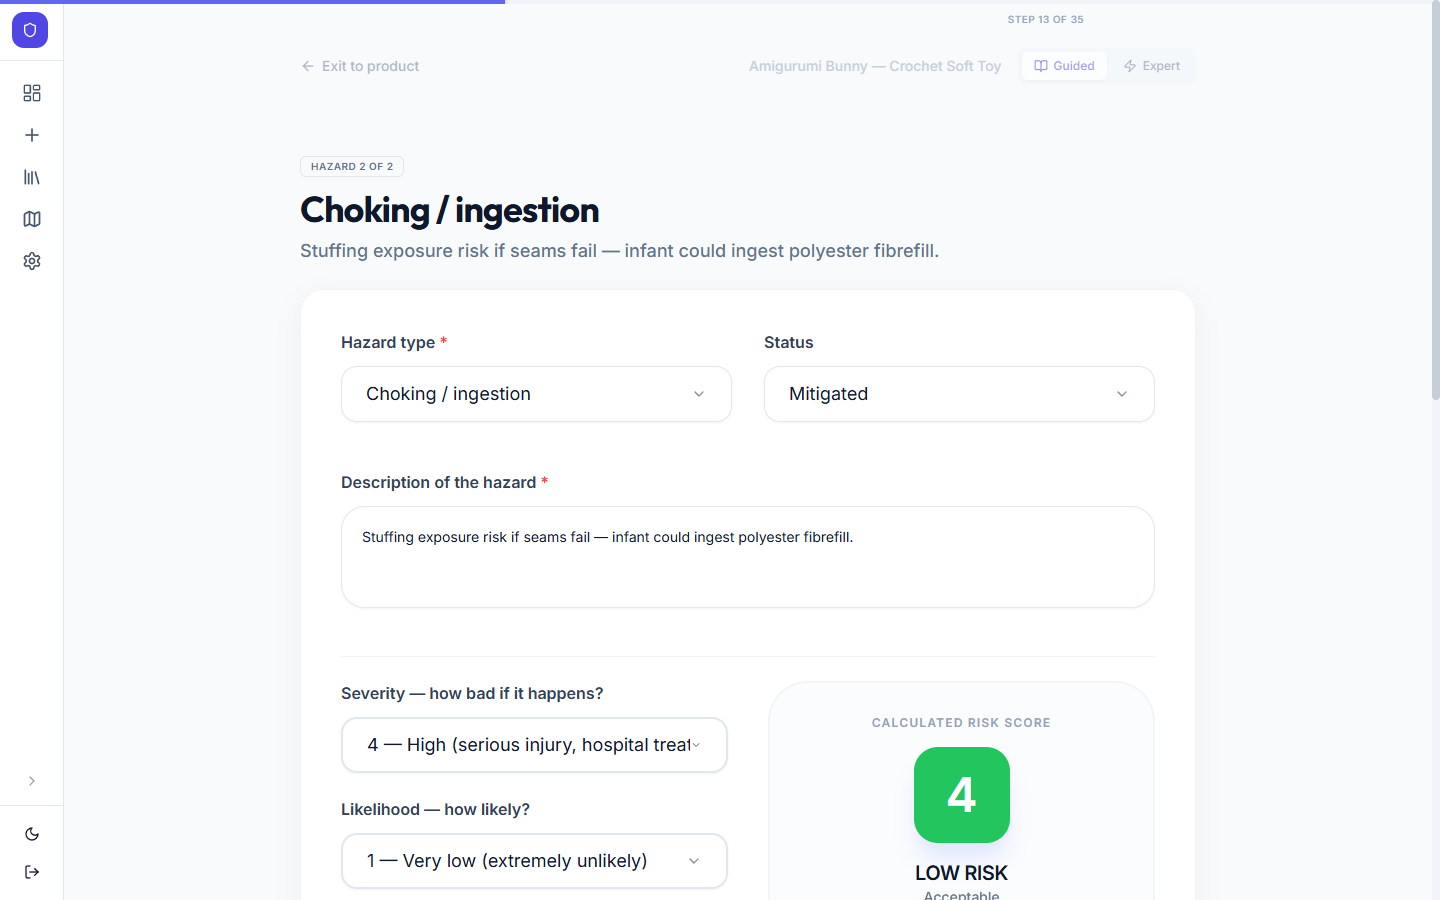
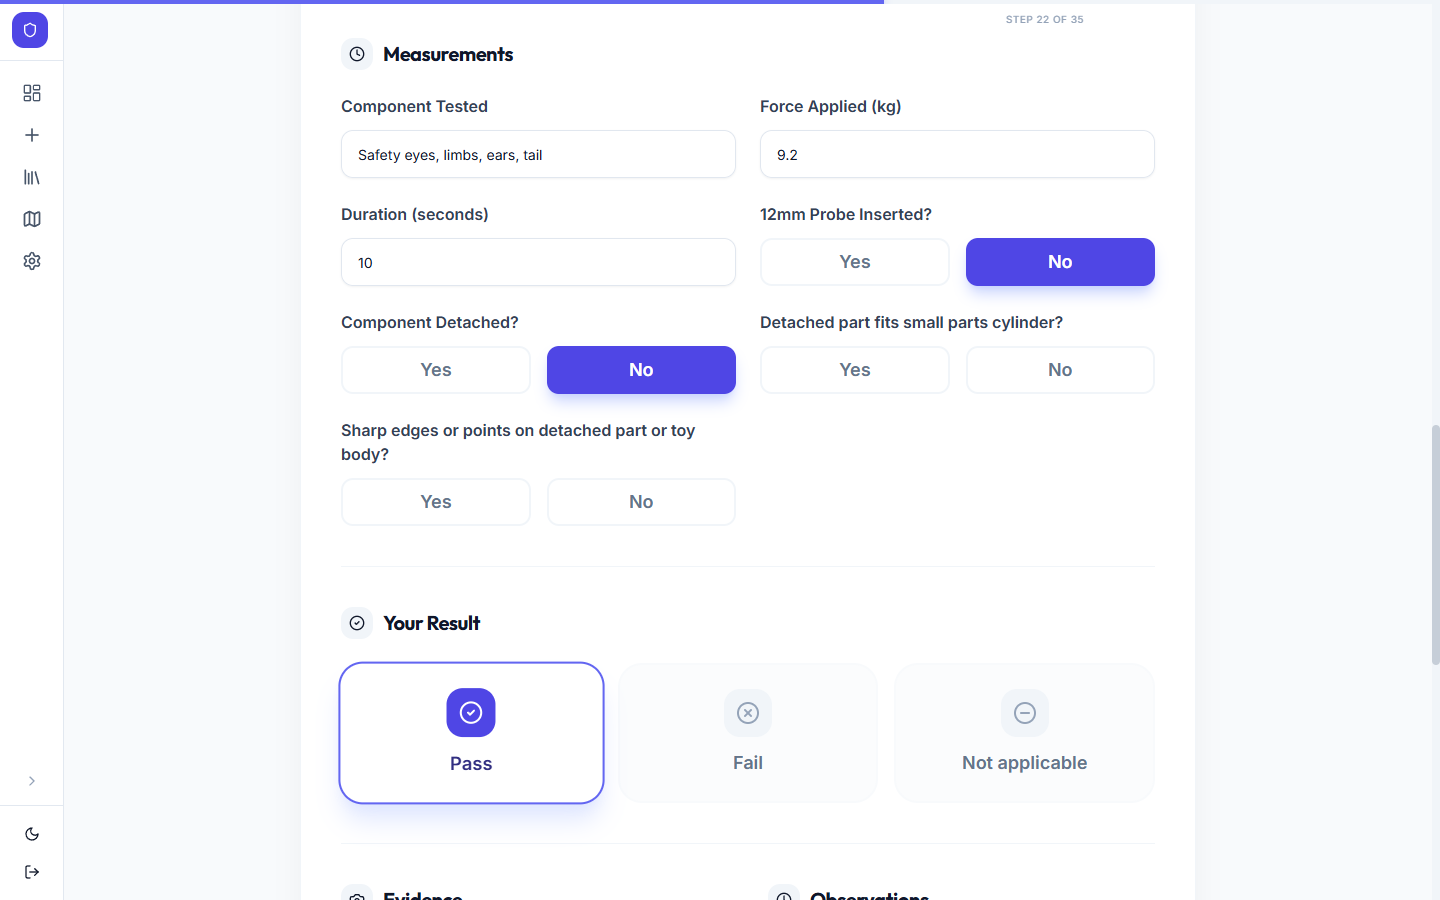
Add test screenshot

diff --git a/index.html b/index.html
@@ -3,14 +3,14 @@
 <head>
 <meta charset="UTF-8">
 <meta name="viewport" content="width=device-width, initial-scale=1.0">
-<title>MakerSafe — UKCA Compliance for UK Toy Makers</title>
+<title>MakerSafe — Get your UKCA paperwork right</title>
 <meta name="description" content="MakerSafe guides UK toy makers through EN71 safety testing, risk assessment, and technical documentation — step by step, in plain English. Generate your Declaration of Conformity, Technical File, and batch labels in seconds.">
-<meta property="og:title" content="MakerSafe — UKCA Compliance for UK Toy Makers">
+<meta property="og:title" content="MakerSafe — Get your UKCA paperwork right">
 <meta property="og:description" content="EN71 testing, risk assessments, Declarations of Conformity, Technical Files, and batch labels. Everything you need to legally sell toys in the UK. Free to get started.">
 <meta property="og:url" content="https://makersafe.co.uk">
 <meta property="og:type" content="website">
 <meta name="twitter:card" content="summary_large_image">
-<meta name="twitter:title" content="MakerSafe — UKCA Compliance for UK Toy Makers">
+<meta name="twitter:title" content="MakerSafe — Get your UKCA paperwork right">
 <meta name="twitter:description" content="Step-by-step UKCA compliance for 3D printed, wooden, crochet, and sewn toys. Free to get started.">
 <script>
   // Apply theme before first paint to avoid flash
@@ -897,7 +897,7 @@
       </div>
       <picture>
         <source media="(max-width: 820px)" srcset="demo_screenshots/s4_wizard_mobile.png">
-        <img class="screenshot" src="demo_screenshots/s4_wizard_new.png" alt="Guided wizard showing a risk assessment step: Choking/ingestion hazard with severity, likelihood and calculated risk score" loading="lazy">
+        <img class="screenshot" src="demo_screenshots/s4_wizard_new.png" alt="Guided wizard showing a tension test step with measurements filled in and Pass result selected" loading="lazy">
       </picture>
     </div>
 